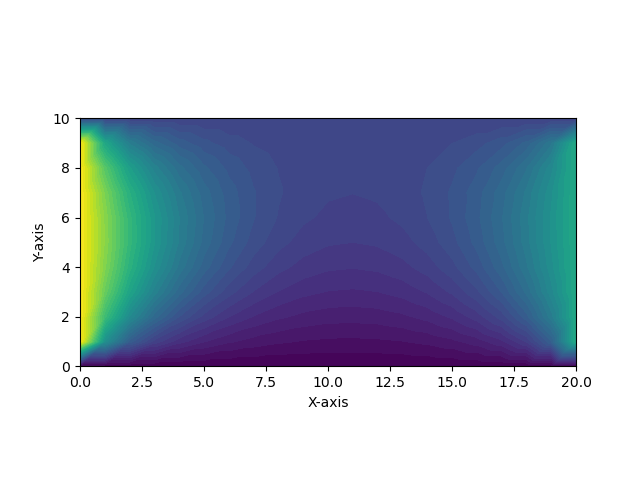
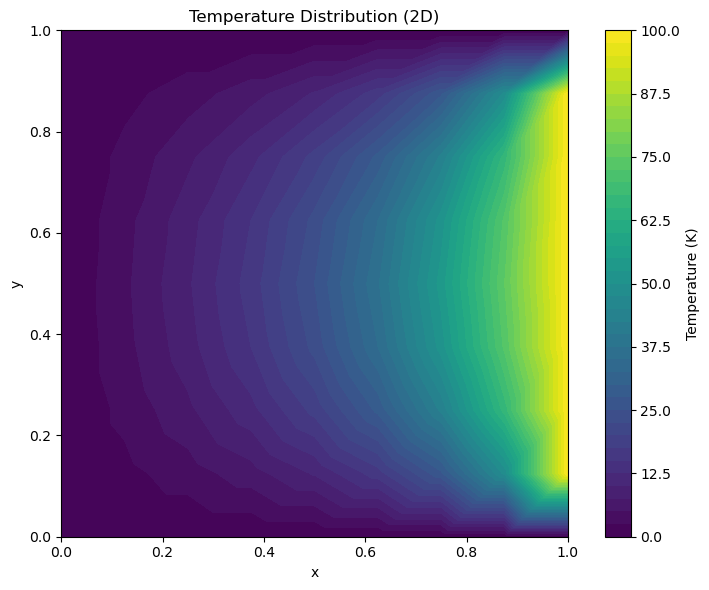
feat: Enhance mesh plotting functionality with support for 1D, 2D, and 3D visualizations

diff --git a/mesh/mesh.py b/mesh/mesh.py
@@ -155,15 +155,58 @@ matplotlib.use("Agg")
 STATIC_DIR = os.path.join(BASE_DIR, 'static') 
 
 def generate_mesh_plot(mesh):
-    plot(mesh)
+    """Plot mesh topology using direct matplotlib (avoids FEniCS gca() compat issue)."""
+    import matplotlib.tri as mtri
+    import numpy as np
 
-    if not os.path.exists(STATIC_DIR):
-        os.makedirs(STATIC_DIR)
+    coords = mesh.coordinates()
+    cells = mesh.cells()
+    dim = mesh.geometry().dim()
 
+    os.makedirs(STATIC_DIR, exist_ok=True)
     plot_filename = os.path.join(STATIC_DIR, 'mesh_plot.png')
-    plt.savefig(plot_filename)
-    plt.close()
 
+    if dim == 1:
+        fig, ax = plt.subplots(figsize=(8, 3))
+        x = coords.flatten()
+        ax.scatter(x, np.zeros_like(x), s=15, color='steelblue', zorder=3)
+        for cell in cells:
+            ax.plot(coords[cell, 0], [0, 0], 'steelblue', linewidth=1.5)
+        ax.set_xlabel('x')
+        ax.set_yticks([])
+        ax.set_title(f'1D Mesh  ({mesh.num_cells()} cells)')
+
+    elif dim == 2:
+        fig, ax = plt.subplots(figsize=(7, 6))
+        triang = mtri.Triangulation(coords[:, 0], coords[:, 1], cells)
+        ax.triplot(triang, color='steelblue', linewidth=0.6)
+        ax.set_xlabel('x')
+        ax.set_ylabel('y')
+        ax.set_aspect('equal')
+        ax.set_title(f'2D Mesh  ({mesh.num_cells()} cells)')
+
+    elif dim == 3:
+        fig = plt.figure(figsize=(8, 6))
+        ax = fig.add_subplot(111, projection='3d')
+        plotted = 0
+        for cell in cells:
+            verts = coords[cell]
+            n = len(cell)
+            for i in range(n):
+                for j in range(i + 1, n):
+                    ax.plot(*zip(verts[i], verts[j]),
+                            color='steelblue', linewidth=0.3, alpha=0.4)
+            plotted += 1
+            if plotted > 500:   # cap edge drawing for large meshes
+                break
+        ax.set_xlabel('x')
+        ax.set_ylabel('y')
+        ax.set_zlabel('z')
+        ax.set_title(f'3D Mesh  ({mesh.num_cells()} cells)')
+
+    plt.tight_layout()
+    plt.savefig(plot_filename, dpi=100, bbox_inches='tight')
+    plt.close()
     return 'mesh_plot.png'
 
 import plotly.graph_objects as go